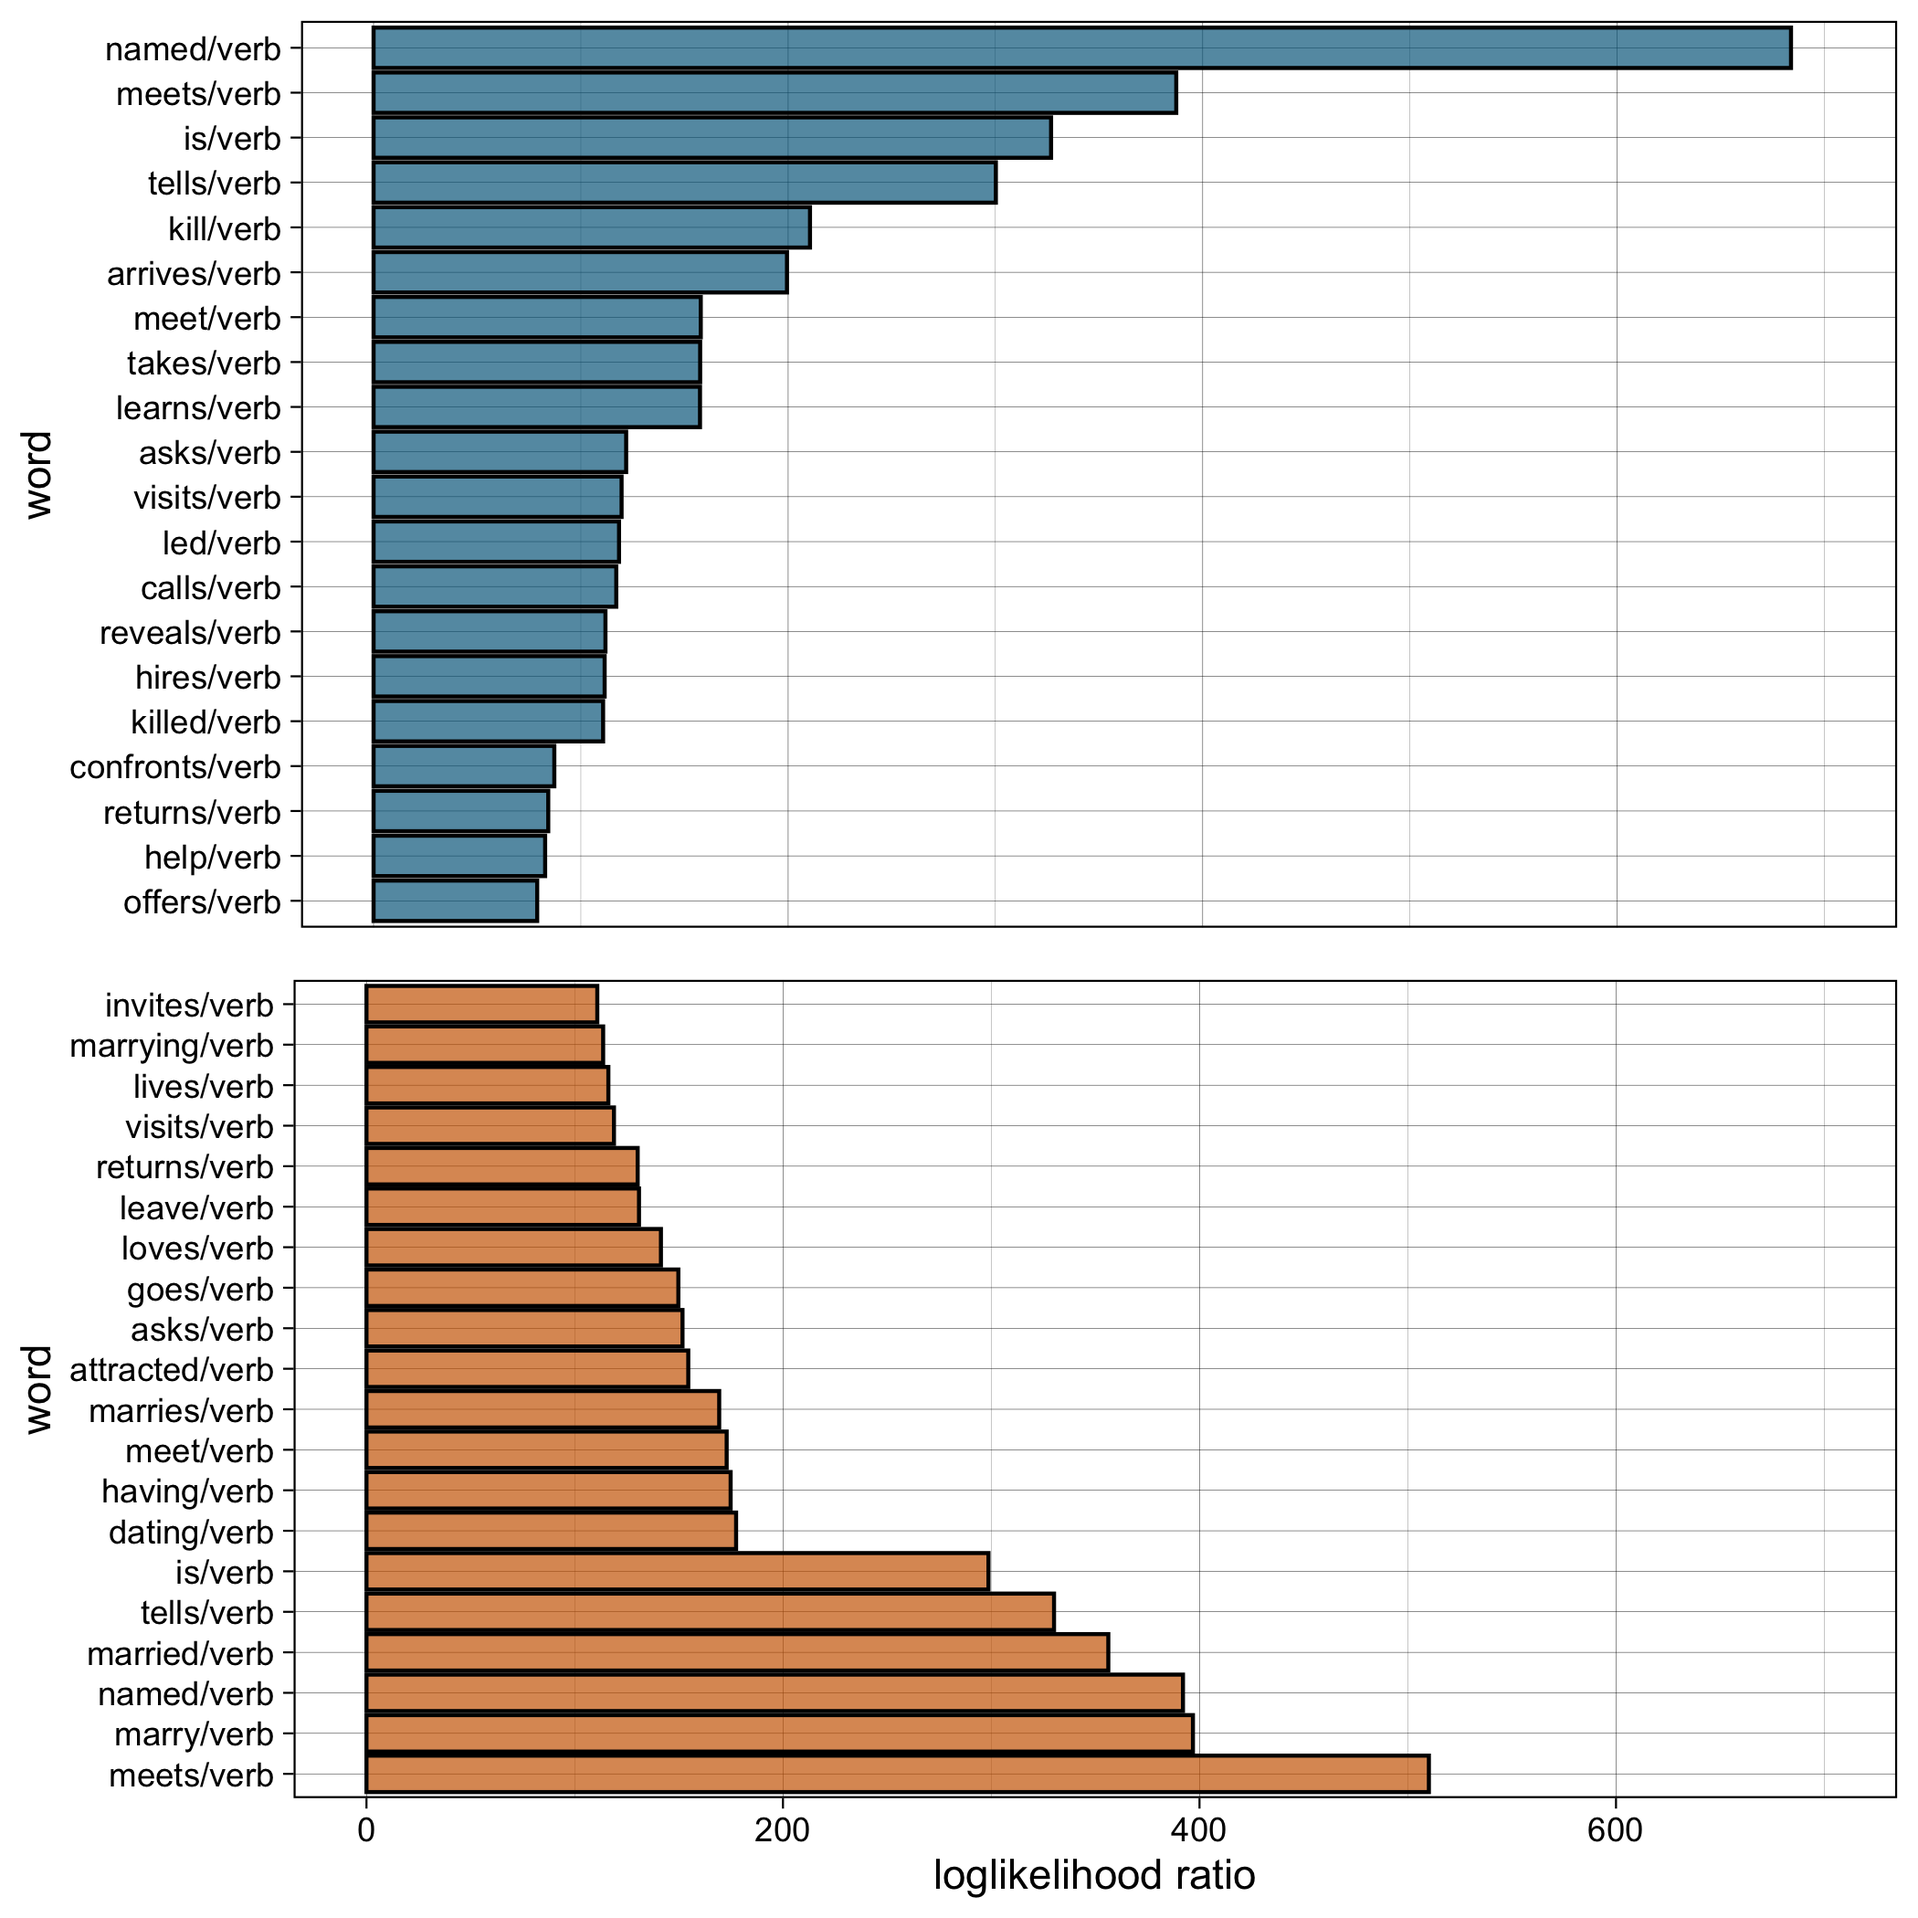
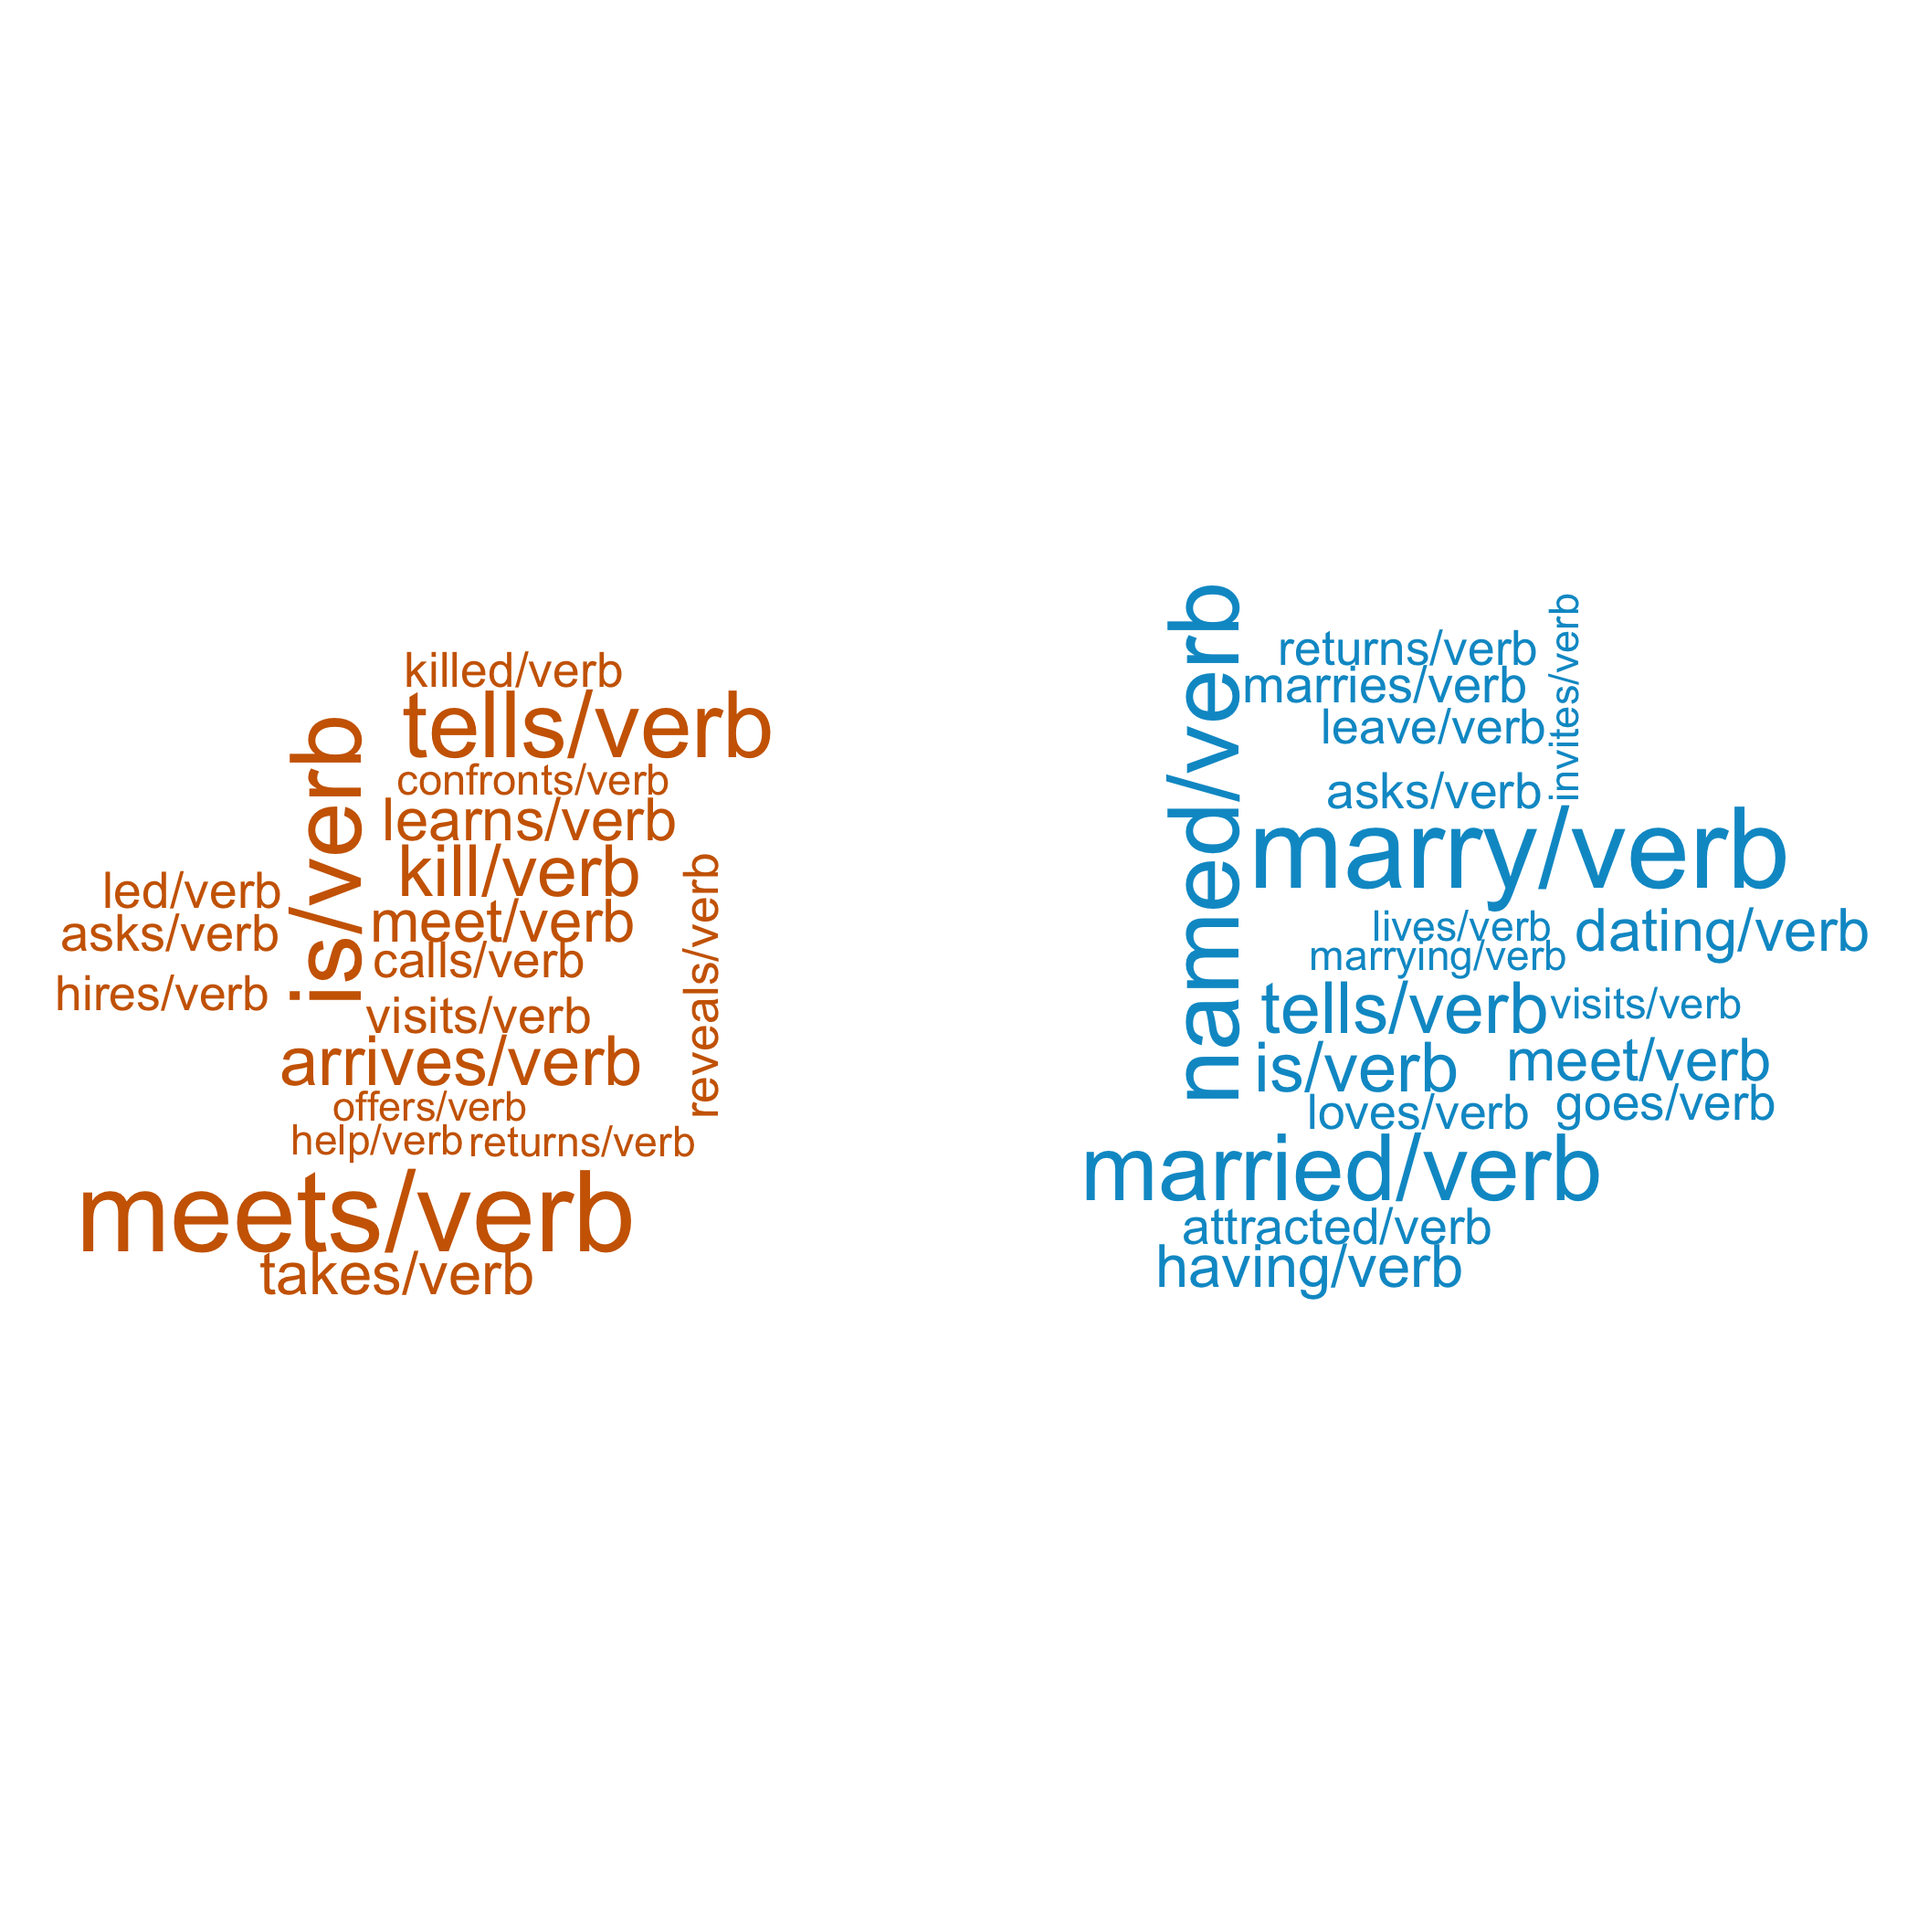
update README.md

diff --git a/docs/README.md b/docs/README.md
@@ -31,6 +31,7 @@ library(igraph) #for creating graphs
 library(visNetwork) #for visualizing graphs
 library(gridExtra)
 library(gtable)
+library(wordcloud)
 
 source("calculatecoocstats.R") #calculate co-occurrence statistics
 source("grapher.R") #create graph
@@ -658,7 +659,8 @@ mn = ggplot(male_np, aes(x = reorder(word, llr), y = llr)) +
            xlab('word') + ylab('loglikelihood ratio') + ylim(0, ylimit) +
            theme_linedraw() + theme(axis.title.x=element_blank(),
                               axis.text.x=element_blank(),
-                              axis.ticks.x=element_blank())
+                              axis.ticks.x=element_blank()) +
+        ggtitle('Male')
 
 female_primary = female_primary[names(female_primary) != 'male/characters']
 female_primary = female_primary[1:20]
@@ -669,7 +671,11 @@ fn = ggplot(female_np, aes(x = reorder(word, -llr), y = llr)) +
   geom_bar(stat = 'identity', fill = 'darkorange3', 
            alpha = 0.7, color = 'black') + coord_flip() +
            xlab('word') + ylab('loglikelihood ratio') + theme_linedraw() +
-  ylim(0, ylimit)
+  ylim(0, ylimit) + ggtitle('Female')
+
+par(mfrow=c(1,2))
+wordcloud(words = male_np$word, freq = male_np$llr, colors = 'darkorange3')
+wordcloud(words = female_np$word, freq = male_np$llr, colors = 'deepskyblue3')
 
 grid.arrange(mn, fn)
 }
@@ -679,16 +685,34 @@ grid.arrange(mn, fn)
 ll_bar('noun')
 ```
 
-![](README_files/figure-gfm/unnamed-chunk-17-1.png)<!-- -->
+    ## Warning in wordcloud(words = male_np$word, freq = male_np$llr, colors =
+    ## "darkorange3"): friend/noun could not be fit on page. It will not be plotted.
+
+    ## Warning in wordcloud(words = female_np$word, freq = male_np$llr, colors =
+    ## "deepskyblue3"): daughter/noun could not be fit on page. It will not be plotted.
+
+    ## Warning in wordcloud(words = female_np$word, freq = male_np$llr, colors =
+    ## "deepskyblue3"): sister/noun could not be fit on page. It will not be plotted.
+
+![](README_files/figure-gfm/unnamed-chunk-17-1.png)<!-- -->![](README_files/figure-gfm/unnamed-chunk-17-2.png)<!-- -->
 
 ``` r
 ll_bar('verb', ylimit = 700)
 ```
 
-![](README_files/figure-gfm/unnamed-chunk-18-1.png)<!-- -->
+    ## Warning in wordcloud(words = male_np$word, freq = male_np$llr, colors =
+    ## "darkorange3"): named/verb could not be fit on page. It will not be plotted.
+
+    ## Warning in wordcloud(words = female_np$word, freq = male_np$llr, colors =
+    ## "deepskyblue3"): meets/verb could not be fit on page. It will not be plotted.
+
+![](README_files/figure-gfm/unnamed-chunk-18-1.png)<!-- -->![](README_files/figure-gfm/unnamed-chunk-18-2.png)<!-- -->
 
 ``` r
 ll_bar('adj', ylimit = 400)
 ```
 
-![](README_files/figure-gfm/unnamed-chunk-19-1.png)<!-- -->
+    ## Warning in wordcloud(words = female_np$word, freq = male_np$llr, colors =
+    ## "deepskyblue3"): pregnant/adj could not be fit on page. It will not be plotted.
+
+![](README_files/figure-gfm/unnamed-chunk-19-1.png)<!-- -->![](README_files/figure-gfm/unnamed-chunk-19-2.png)<!-- -->
